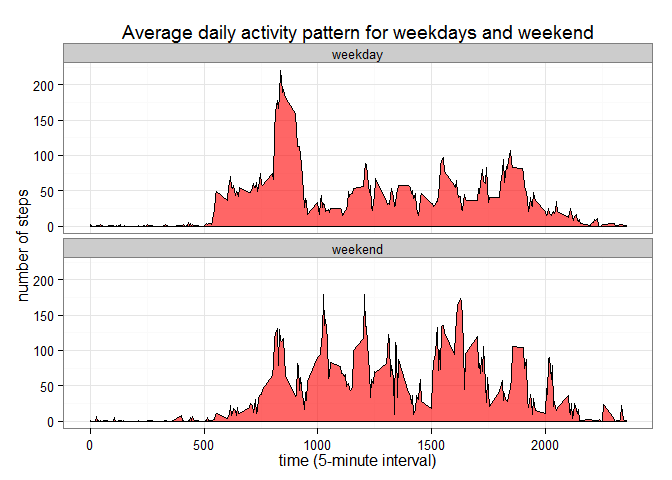
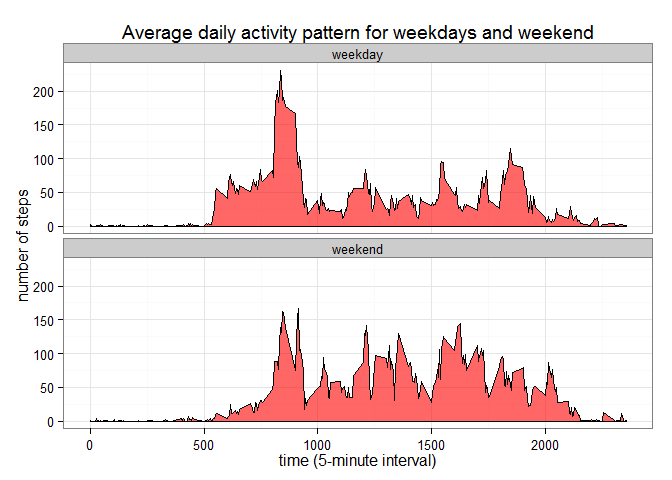
typo

diff --git a/PA1_template.html b/PA1_template.html
@@ -169,7 +169,7 @@ ActData2 &lt;- ActData
 MissingSteps &lt;- is.na(ActData2$steps)
 
 # create a fillervector with calculated means for the 5-minute intervals per day (dataframe contains 61 days)
-Stepfiller &lt;- rep(MeanInterval$steps, 61) 
+Stepfiller &lt;- rep(MeanStepsInterval$steps, 61) 
 
 # replace NAs in steps with calculated means for the 5-minute intervals
 ActData2$steps[MissingSteps] &lt;- round(Stepfiller[MissingSteps])</code></pre>
@@ -203,7 +203,7 @@ MedianStepsDay2 &lt;- round(median(SumAllDays2$totalStep))</code></pre>
 # indicating whether a given date is a weekday or weekend day.
 
 # Define weekend days
-weekend &lt;- c(&quot;Satuday&quot;, &quot;Sunday&quot;)
+weekend &lt;- c(&quot;Saturday&quot;, &quot;Sunday&quot;)
 
 # Define a function to determine whether the day is a weekend or weekday
 WtKindOfDay &lt;- function(date) {
@@ -230,7 +230,7 @@ P &lt;- P + labs(title = &quot;Average daily activity pattern for weekdays and w
                   y = &quot;number of steps&quot;)
 P &lt;- P + theme_bw()
 print(P)</code></pre>
[2 lines of base64/hex data omitted]
 <p>As we can see, there is a clear difference between the activity pattern for weekdays and weekends.<br />On a weekday activity starts earlier and has a higher peak in the morning.<br />On weekends the activity starts later and there is more activity during the day.</p>
 </div>
 

diff --git a/PA1_template.md b/PA1_template.md
@@ -202,7 +202,7 @@ ActData2 <- ActData
 MissingSteps <- is.na(ActData2$steps)
 
 # create a fillervector with calculated means for the 5-minute intervals per day (dataframe contains 61 days)
-Stepfiller <- rep(MeanInterval$steps, 61) 
+Stepfiller <- rep(MeanStepsInterval$steps, 61) 
 
 # replace NAs in steps with calculated means for the 5-minute intervals
 ActData2$steps[MissingSteps] <- round(Stepfiller[MissingSteps])
@@ -263,7 +263,7 @@ And make a panel plot containing a time series plot of the 5-minute interval (x-
 # indicating whether a given date is a weekday or weekend day.
 
 # Define weekend days
-weekend <- c("Satuday", "Sunday")
+weekend <- c("Saturday", "Sunday")
 
 # Define a function to determine whether the day is a weekend or weekday
 WtKindOfDay <- function(date) {

diff --git a/README.md b/README.md
@@ -202,7 +202,7 @@ ActData2 <- ActData
 MissingSteps <- is.na(ActData2$steps)
 
 # create a fillervector with calculated means for the 5-minute intervals per day (dataframe contains 61 days)
-Stepfiller <- rep(MeanInterval$steps, 61) 
+Stepfiller <- rep(MeanStepsInterval$steps, 61) 
 
 # replace NAs in steps with calculated means for the 5-minute intervals
 ActData2$steps[MissingSteps] <- round(Stepfiller[MissingSteps])
@@ -263,7 +263,7 @@ And make a panel plot containing a time series plot of the 5-minute interval (x-
 # indicating whether a given date is a weekday or weekend day.
 
 # Define weekend days
-weekend <- c("Satuday", "Sunday")
+weekend <- c("Saturday", "Sunday")
 
 # Define a function to determine whether the day is a weekend or weekday
 WtKindOfDay <- function(date) {
